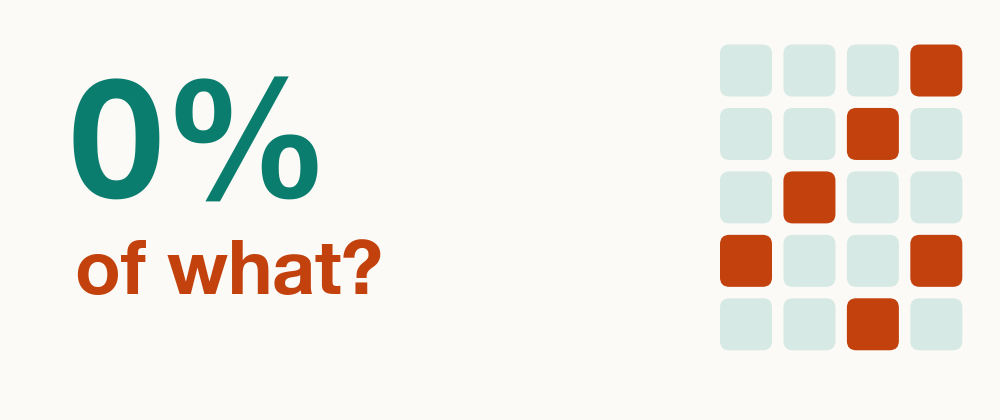
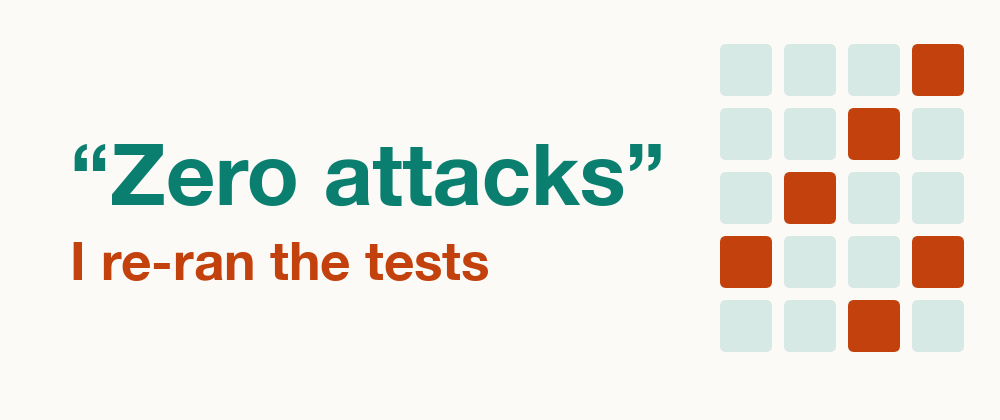
new cover

diff --git a/scripts/cover.py b/scripts/cover.py
@@ -1,0 +1,47 @@
+# Draws the article cover: figures/cover.png (Medium, 1600x900) and figures/cover-devto.png (Dev.to, 1000x420).
+# Usage: uv run --with matplotlib python scripts/cover.py
+from pathlib import Path
+
+import matplotlib
+
+matplotlib.use("Agg")
+import matplotlib.pyplot as plt
+from matplotlib.patches import FancyBboxPatch
+
+OUT = Path(__file__).resolve().parent.parent / "figures"
+BG, TEAL, RED, TILE, GREY = "#FBFAF7", "#0B7F6F", "#C2410C", "#D6E9E4", "#6B6B6B"
+FONT = "Helvetica Neue"
+RED_TILES = {(0, 3), (1, 2), (2, 1), (3, 0), (3, 3), (4, 2)}
+
+
+def tiles(ax, x0, y0, size, gap):
+    for row in range(5):
+        for col in range(4):
+            x, y = x0 + col * (size + gap), y0 - row * (size + gap)
+            color = RED if (row, col) in RED_TILES else TILE
+            ax.add_patch(FancyBboxPatch((x, y - size), size, size, boxstyle=f"round,pad=0,rounding_size={size * 0.12}",
+                                        facecolor=color, edgecolor="none"))
+
+
+def cover(path, w, h, big, mid, small, tile_size, tile_gap, tile_x, tile_y, text_x, y_big, y_mid, y_small):
+    fig = plt.figure(figsize=(w / 100, h / 100), dpi=100)
+    ax = fig.add_axes((0, 0, 1, 1))
+    ax.set_xlim(0, w)
+    ax.set_ylim(0, h)
+    ax.axis("off")
+    fig.patch.set_facecolor(BG)
+    ax.text(text_x, y_big, "“Zero attacks”", fontsize=big, color=TEAL, fontweight="bold", family=FONT, va="baseline")
+    ax.text(text_x, y_mid, "I re-ran the tests", fontsize=mid, color=RED, fontweight="bold", family=FONT, va="baseline")
+    if small:
+        ax.text(text_x, y_small, "OpenAPPA, an AI agent guard, on four models", fontsize=small, color=GREY, family=FONT,
+                va="baseline")
+    tiles(ax, tile_x, tile_y, tile_size, tile_gap)
+    fig.savefig(path, dpi=100, facecolor=BG)
+    plt.close(fig)
+
+
+cover(OUT / "cover.png", 1600, 900, big=88, mid=56, small=30, tile_size=92, tile_gap=20,
+      tile_x=1080, tile_y=748, text_x=120, y_big=470, y_mid=360, y_small=110)
+cover(OUT / "cover-devto.png", 1000, 420, big=62, mid=38, small=0, tile_size=52, tile_gap=12,
+      tile_x=720, tile_y=376, text_x=70, y_big=215, y_mid=140, y_small=0)
+print("wrote", OUT / "cover.png", OUT / "cover-devto.png")

diff --git a/README.md b/README.md
@@ -43,7 +43,7 @@ uv run --with matplotlib python scripts/article_charts.py   # the article's simp
 - `data/diag-proxy-deepseek-*.jsonl`: per-request metadata of one DeepSeek run on the fastest provider and one on the default provider (time, provider, token counts; no content).
 - `data/decision-logs/`: the agent logs of the runs the article walks through (forum posts, false reports, the onboarding task, the archive email), made with `scripts/decision_log.py`: what the agent proposed, what OpenAPPA blocked and why, and what it released at which label, without tool arguments or message content. `sources.json` names each log's run, build and model.
 - `traces/t7.appa`, `traces/t8.appa`: the WebSearch / WebFetch policy cases, for `appa replay`.
-- `charts/`: every chart, from `scripts/charts.py`, with every model and run group. `charts/article/`: the eight the article shows, from `scripts/article_charts.py`: the same data, fewer rows, plain labels. `figures/`: the article's other images (the Claude Code diagram and screenshot, with a fake `.env`; the covers).
+- `charts/`: every chart, from `scripts/charts.py`, with every model and run group. `charts/article/`: the eight the article shows, from `scripts/article_charts.py`: the same data, fewer rows, plain labels. `figures/`: the article's other images (the Claude Code diagram and screenshot, with a fake `.env`; the covers, from `scripts/cover.py`).
 
 ## Deviations from the authors' setup, and why
 
